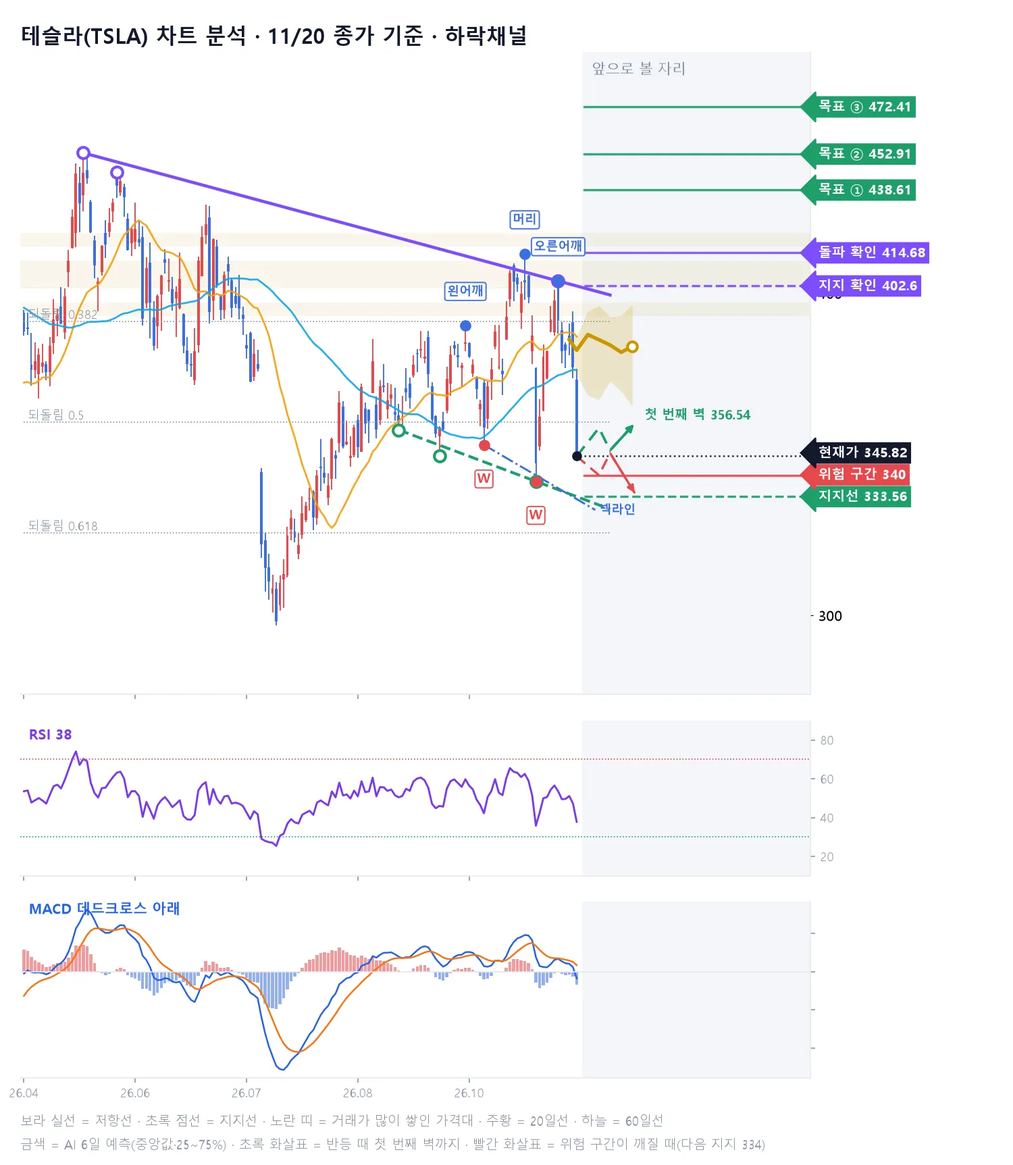
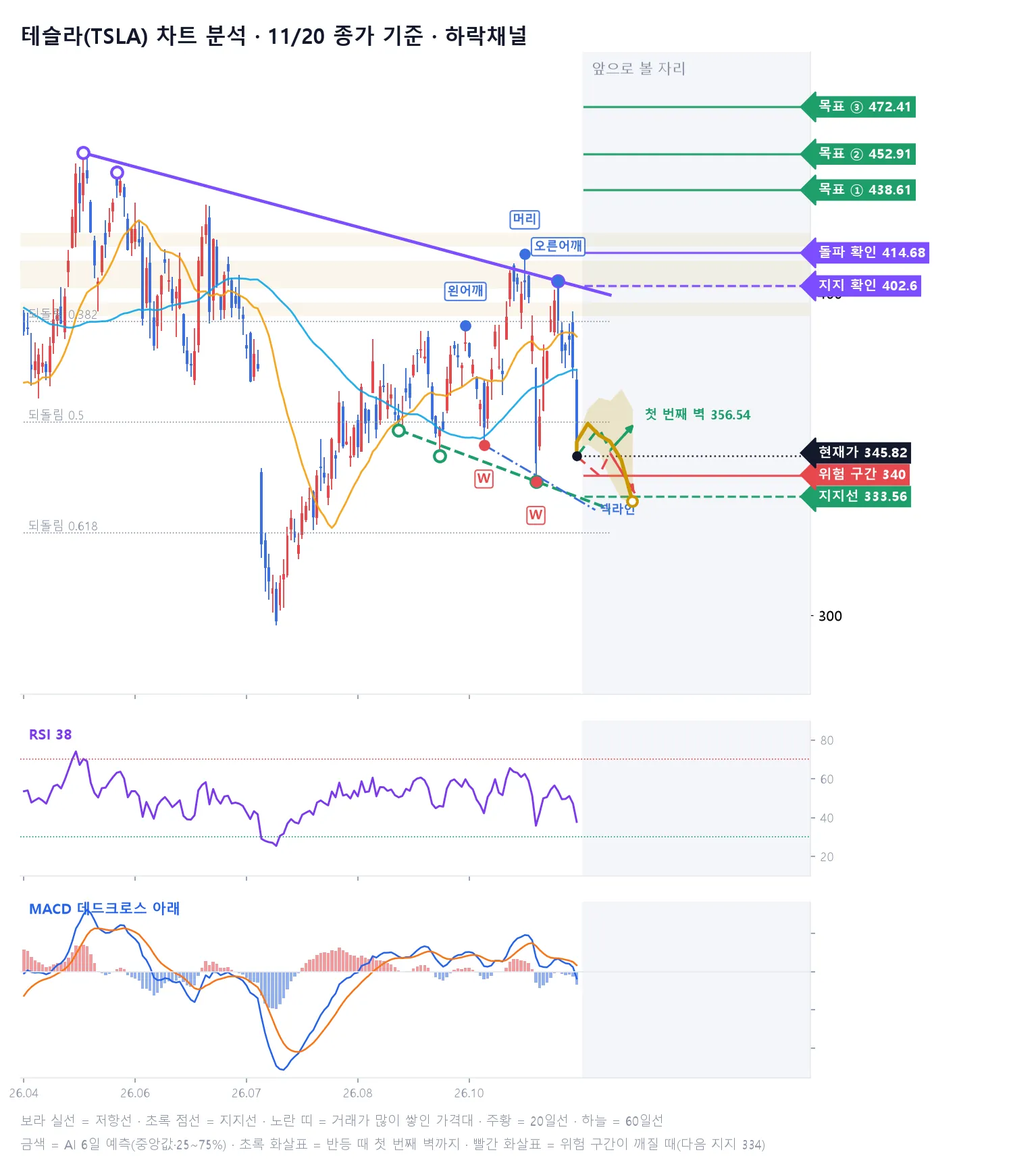
무료 공개 종목 페이지 자동 갱신

Changed region(s): [[0.552, 0.2458, 0.644, 0.4301]]

diff --git a/s/index.html b/s/index.html
@@ -84,8 +84,8 @@
     <h1>오늘의 무료 공개 종목</h1>
     <p style="margin:0;color:#B7BFD0">유튜브 쇼츠에 나온 종목의 AI 판정과 6일 예측 흐름을 누구나 볼 수 있어요</p>
   </section>
-  <div class="pk-list"><a class="card pk-item" href="BTC/"><span><b>비트코인(BTC)</b><small>코인 · 업비트 · 11/20 예측</small></span><b class="v-mx">혼돈</b></a><a class="card pk-item" href="ETH/"><span><b>이더리움(ETH)</b><small>코인 · 업비트 · 11/21 예측</small></span><b class="v-mx">혼돈</b></a><a class="card pk-item" href="SUI/"><span><b>수이(SUI)</b><small>코인 · 업비트 · 11/21 예측</small></span><b class="v-up">상승</b></a><a class="card pk-item" href="ZRO/"><span><b>레이어제로(ZRO)</b><small>코인 · 업비트 · 11/21 예측</small></span><b class="v-mx">혼돈</b></a><a class="card pk-item" href="XLM/"><span><b>스텔라루멘(XLM)</b><small>코인 · 업비트 · 11/21 예측</small></span><b class="v-up">상승</b></a><a class="card pk-item" href="ETC/"><span><b>이더리움클래식(ETC)</b><small>코인 · 업비트 · 11/21 예측</small></span><b class="v-up">상승</b></a><a class="card pk-item" href="MANA/"><span><b>디센트럴랜드(MANA)</b><small>코인 · 업비트 · 11/21 예측</small></span><b class="v-up">상승</b></a><a class="card pk-item" href="PALANTIR/"><span><b>팔란티어(PALANTIR)</b><small>미국 주식 · 11/21 예측</small></span><b class="v-up">상승</b></a><a class="card pk-item" href="NVIDIA/"><span><b>엔비디아(NVIDIA)</b><small>미국 주식 · 11/21 예측</small></span><b class="v-up">상승</b></a><a class="card pk-item" href="DOW/"><span><b>다우존스(DOW)</b><small>미국 주식 · 11/21 예측</small></span><b class="v-up">상승</b></a><a class="card pk-item" href="RUSSELL2000/"><span><b>러셀2000(RUSSELL2000)</b><small>미국 주식 · 11/21 예측</small></span><b class="v-up">상승</b></a><a class="card pk-item" href="MERCADOLIBRE/"><span><b>메르카도리브레(MERCADOLIBRE)</b><small>미국 주식 · 11/21 예측</small></span><b class="v-up">상승</b></a><a class="card pk-item" href="SK%ED%95%98%EC%9D%B4%EB%8B%89%EC%8A%A4/"><span><b>SK하이닉스(000660)</b><small>코스피200 · 11/20 예측</small></span><b class="v-mx">혼돈</b></a><a class="card pk-item" href="%EC%82%BC%EC%84%B1%EC%A0%84%EC%9E%90/"><span><b>삼성전자(005930)</b><small>코스피200 · 11/21 예측</small></span><b class="v-mx">혼돈</b></a><a class="card pk-item" href="%ED%95%9C%ED%99%94%EC%86%94%EB%A3%A8%EC%85%98/"><span><b>한화솔루션</b><small>코스피200 · 11/21 예측</small></span><b class="v-mx">혼돈</b></a><a class="card pk-item" href="KODEX%EB%AF%B8%EA%B5%AD%EB%82%98%EC%8A%A4%EB%8B%A5100TR/"><span><b>KODEX미국나스닥100TR</b><small>코스피200 · 11/21 예측</small></span><b class="v-up">상승</b></a><a class="card pk-item" href="TIGER2%EC%B0%A8%EC%A0%84%EC%A7%80%ED%85%8C%EB%A7%88/"><span><b>TIGER2차전지테마</b><small>코스피200 · 11/21 예측</small></span><b class="v-up">상승</b></a><a class="card pk-item" href="TIGER%EB%AF%B8%EA%B5%AD%ED%85%8C%ED%81%ACTOP10/"><span><b>TIGER미국테크TOP10</b><small>코스피200 · 11/21 예측</small></span><b class="v-up">상승</b></a><a class="card pk-item" href="KODEX2%EC%B0%A8%EC%A0%84%EC%A7%80%EC%82%B0%EC%97%85/"><span><b>KODEX2차전지산업</b><small>코스피200 · 11/21 예측</small></span><b class="v-up">상승</b></a><a class="card pk-item" href="KOSDAQ/"><span><b>코스닥(KOSDAQ)</b><small>코스피 지수 · 11/21 예측</small></span><b class="v-up">상승</b></a><a class="card pk-item" href="KOSPI/"><span><b>코스피(KOSPI)</b><small>코스피 지수 · 11/21 예측</small></span><b class="v-up">상승</b></a></div>
-  <h2 style="font-size:17px;margin:12px 0 0">지난 공개 종목</h2><div class="pk-list"><a class="card pk-item" href="APT/"><span><b>앱토스(APT)</b><small>코인 · 업비트 · 11/20 예측</small></span><b class="v-up">상승</b></a><a class="card pk-item" href="STRAX/"><span><b>저트라(STRAX)</b><small>코인 · 업비트 · 11/20 예측</small></span><b class="v-up">상승</b></a><a class="card pk-item" href="ENS/"><span><b>이더리움네임서비스(ENS)</b><small>코인 · 업비트 · 11/20 예측</small></span><b class="v-up">상승</b></a><a class="card pk-item" href="KODEXWTI%EC%9B%90%EC%9C%A0%EC%84%A0%EB%AC%BCH/"><span><b>KODEXWTI원유선물H</b><small>코스피200 · 11/20 예측</small></span><b class="v-up">상승</b></a><a class="card pk-item" href="%ED%95%9C%EC%A0%84%EA%B8%B0%EC%88%A0/"><span><b>한전기술</b><small>코스피200 · 11/20 예측</small></span><b class="v-up">상승</b></a><a class="card pk-item" href="KODEX%EA%B3%A8%EB%93%9C%EC%84%A0%EB%AC%BCH/"><span><b>KODEX골드선물H</b><small>코스피200 · 11/20 예측</small></span><b class="v-mx">혼돈</b></a><a class="card pk-item" href="TESLA/"><span><b>테슬라(TSLA)</b><small>미국 주식 · 11/19 예측</small></span><b class="v-mx">혼돈</b></a><a class="card pk-item" href="STRATEGY/"><span><b>스트래티지(STRATEGY)</b><small>미국 주식 · 11/19 예측</small></span><b class="v-up">상승</b></a><a class="card pk-item" href="NETFLIX/"><span><b>넷플릭스(NETFLIX)</b><small>미국 주식 · 11/19 예측</small></span><b class="v-up">상승</b></a><a class="card pk-item" href="SHIB/"><span><b>시바이누(SHIB)</b><small>코인 · 업비트 · 11/19 예측</small></span><b class="v-up">상승</b></a><a class="card pk-item" href="TOKAMAK/"><span><b>토카막네트워크(TOKAMAK)</b><small>코인 · 업비트 · 11/19 예측</small></span><b class="v-up">상승</b></a><a class="card pk-item" href="TIGER%EB%AF%B8%EA%B5%ADSP500/"><span><b>TIGER미국SP500</b><small>코스피200 · 11/19 예측</small></span><b class="v-mx">혼돈</b></a><a class="card pk-item" href="%EA%B8%B0%EC%95%84/"><span><b>기아</b><small>코스피200 · 11/19 예측</small></span><b class="v-mx">혼돈</b></a><a class="card pk-item" href="%ED%98%84%EB%8C%80%EB%A1%9C%ED%85%9C/"><span><b>현대로템</b><small>코스피200 · 11/19 예측</small></span><b class="v-up">상승</b></a><a class="card pk-item" href="TIGER%EB%B0%98%EB%8F%84%EC%B2%B4TOP10/"><span><b>TIGER반도체TOP10</b><small>코스피200 · 11/19 예측</small></span><b class="v-up">상승</b></a><a class="card pk-item" href="MBL/"><span><b>무비블록(MBL)</b><small>코인 · 업비트 · 11/18 예측</small></span><b class="v-up">상승</b></a><a class="card pk-item" href="SC/"><span><b>시아코인(SC)</b><small>코인 · 업비트 · 11/18 예측</small></span><b class="v-up">상승</b></a><a class="card pk-item" href="ELF/"><span><b>엘프(ELF)</b><small>코인 · 업비트 · 11/18 예측</small></span><b class="v-up">상승</b></a><a class="card pk-item" href="BITMINE/"><span><b>비트마인(BITMINE)</b><small>미국 주식 · 11/18 예측</small></span><b class="v-up">상승</b></a><a class="card pk-item" href="NASDAQ100/"><span><b>나스닥100(NASDAQ100)</b><small>미국 주식 · 11/18 예측</small></span><b class="v-up">상승</b></a><a class="card pk-item" href="NASDAQ/"><span><b>나스닥(NASDAQ)</b><small>미국 주식 · 11/18 예측</small></span><b class="v-up">상승</b></a><a class="card pk-item" href="DB%ED%95%98%EC%9D%B4%ED%85%8D/"><span><b>DB하이텍</b><small>코스피200 · 11/18 예측</small></span><b class="v-up">상승</b></a><a class="card pk-item" href="%ED%95%9C%ED%99%94%EC%83%9D%EB%AA%85/"><span><b>한화생명</b><small>코스피200 · 11/18 예측</small></span><b class="v-mx">혼돈</b></a><a class="card pk-item" href="SOL/"><span><b>솔라나(SOL)</b><small>코인 · 업비트 · 11/17 예측</small></span><b class="v-up">상승</b></a><a class="card pk-item" href="HBAR/"><span><b>헤데라(HBAR)</b><small>코인 · 업비트 · 11/17 예측</small></span><b class="v-up">상승</b></a><a class="card pk-item" href="NEAR/"><span><b>니어프로토콜(NEAR)</b><small>코인 · 업비트 · 11/17 예측</small></span><b class="v-up">상승</b></a><a class="card pk-item" href="CISCO/"><span><b>시스코(CISCO)</b><small>미국 주식 · 11/17 예측</small></span><b class="v-up">상승</b></a><a class="card pk-item" href="DB%EC%86%90%ED%95%B4%EB%B3%B4%ED%97%98/"><span><b>DB손해보험</b><small>코스피200 · 11/17 예측</small></span><b class="v-up">상승</b></a><a class="card pk-item" href="NIKKEI225/"><span><b>NIKKEI225</b><small>코스피200 · 11/17 예측</small></span><b class="v-up">상승</b></a><a class="card pk-item" href="LG/"><span><b>LG</b><small>코스피200 · 11/17 예측</small></span><b class="v-up">상승</b></a><a class="card pk-item" href="NEO/"><span><b>네오(NEO)</b><small>코인 · 업비트 · 11/16 예측</small></span><b class="v-up">상승</b></a><a class="card pk-item" href="MED/"><span><b>메디블록(MED)</b><small>코인 · 업비트 · 11/16 예측</small></span><b class="v-up">상승</b></a><a class="card pk-item" href="VET/"><span><b>비체인(VET)</b><small>코인 · 업비트 · 11/16 예측</small></span><b class="v-up">상승</b></a><a class="card pk-item" href="TFUEL/"><span><b>쎄타퓨엘(TFUEL)</b><small>코인 · 업비트 · 11/16 예측</small></span><b class="v-up">상승</b></a><a class="card pk-item" href="SP500/"><span><b>S&amp;P500(SPX)</b><small>미국 주식 · 11/14 예측</small></span><b class="v-dn">하락</b></a><a class="card pk-item" href="BITCOIN_ETF_FIDELITY/"><span><b>비트코인 현물 피델리티(BITCOIN_ETF_FIDELITY)</b><small>미국 주식 · 11/14 예측</small></span><b class="v-up">상승</b></a><a class="card pk-item" href="BITCOIN_ETF_ISHARES/"><span><b>비트코인 현물 아이셰어즈(BITCOIN_ETF_ISHARES)</b><small>미국 주식 · 11/14 예측</small></span><b class="v-up">상승</b></a></div>
+  <div class="pk-list"><a class="card pk-item" href="BTC/"><span><b>비트코인(BTC)</b><small>코인 · 업비트 · 11/20 예측</small></span><b class="v-mx">혼돈</b></a><a class="card pk-item" href="ETH/"><span><b>이더리움(ETH)</b><small>코인 · 업비트 · 11/21 예측</small></span><b class="v-mx">혼돈</b></a><a class="card pk-item" href="SUI/"><span><b>수이(SUI)</b><small>코인 · 업비트 · 11/21 예측</small></span><b class="v-up">상승</b></a><a class="card pk-item" href="ZRO/"><span><b>레이어제로(ZRO)</b><small>코인 · 업비트 · 11/21 예측</small></span><b class="v-mx">혼돈</b></a><a class="card pk-item" href="XLM/"><span><b>스텔라루멘(XLM)</b><small>코인 · 업비트 · 11/21 예측</small></span><b class="v-up">상승</b></a><a class="card pk-item" href="ETC/"><span><b>이더리움클래식(ETC)</b><small>코인 · 업비트 · 11/21 예측</small></span><b class="v-up">상승</b></a><a class="card pk-item" href="MANA/"><span><b>디센트럴랜드(MANA)</b><small>코인 · 업비트 · 11/21 예측</small></span><b class="v-up">상승</b></a><a class="card pk-item" href="TESLA/"><span><b>테슬라(TSLA)</b><small>미국 주식 · 11/21 예측</small></span><b class="v-up">상승</b></a><a class="card pk-item" href="PALANTIR/"><span><b>팔란티어(PALANTIR)</b><small>미국 주식 · 11/21 예측</small></span><b class="v-up">상승</b></a><a class="card pk-item" href="NVIDIA/"><span><b>엔비디아(NVIDIA)</b><small>미국 주식 · 11/21 예측</small></span><b class="v-up">상승</b></a><a class="card pk-item" href="DOW/"><span><b>다우존스(DOW)</b><small>미국 주식 · 11/21 예측</small></span><b class="v-up">상승</b></a><a class="card pk-item" href="RUSSELL2000/"><span><b>러셀2000(RUSSELL2000)</b><small>미국 주식 · 11/21 예측</small></span><b class="v-up">상승</b></a><a class="card pk-item" href="MERCADOLIBRE/"><span><b>메르카도리브레(MERCADOLIBRE)</b><small>미국 주식 · 11/21 예측</small></span><b class="v-up">상승</b></a><a class="card pk-item" href="SK%ED%95%98%EC%9D%B4%EB%8B%89%EC%8A%A4/"><span><b>SK하이닉스(000660)</b><small>코스피200 · 11/20 예측</small></span><b class="v-mx">혼돈</b></a><a class="card pk-item" href="%EC%82%BC%EC%84%B1%EC%A0%84%EC%9E%90/"><span><b>삼성전자(005930)</b><small>코스피200 · 11/21 예측</small></span><b class="v-mx">혼돈</b></a><a class="card pk-item" href="%ED%95%9C%ED%99%94%EC%86%94%EB%A3%A8%EC%85%98/"><span><b>한화솔루션</b><small>코스피200 · 11/21 예측</small></span><b class="v-mx">혼돈</b></a><a class="card pk-item" href="KODEX%EB%AF%B8%EA%B5%AD%EB%82%98%EC%8A%A4%EB%8B%A5100TR/"><span><b>KODEX미국나스닥100TR</b><small>코스피200 · 11/21 예측</small></span><b class="v-up">상승</b></a><a class="card pk-item" href="TIGER2%EC%B0%A8%EC%A0%84%EC%A7%80%ED%85%8C%EB%A7%88/"><span><b>TIGER2차전지테마</b><small>코스피200 · 11/21 예측</small></span><b class="v-up">상승</b></a><a class="card pk-item" href="TIGER%EB%AF%B8%EA%B5%AD%ED%85%8C%ED%81%ACTOP10/"><span><b>TIGER미국테크TOP10</b><small>코스피200 · 11/21 예측</small></span><b class="v-up">상승</b></a><a class="card pk-item" href="KODEX2%EC%B0%A8%EC%A0%84%EC%A7%80%EC%82%B0%EC%97%85/"><span><b>KODEX2차전지산업</b><small>코스피200 · 11/21 예측</small></span><b class="v-up">상승</b></a><a class="card pk-item" href="KOSDAQ/"><span><b>코스닥(KOSDAQ)</b><small>코스피 지수 · 11/21 예측</small></span><b class="v-up">상승</b></a><a class="card pk-item" href="KOSPI/"><span><b>코스피(KOSPI)</b><small>코스피 지수 · 11/21 예측</small></span><b class="v-up">상승</b></a></div>
+  <h2 style="font-size:17px;margin:12px 0 0">지난 공개 종목</h2><div class="pk-list"><a class="card pk-item" href="APT/"><span><b>앱토스(APT)</b><small>코인 · 업비트 · 11/20 예측</small></span><b class="v-up">상승</b></a><a class="card pk-item" href="STRAX/"><span><b>저트라(STRAX)</b><small>코인 · 업비트 · 11/20 예측</small></span><b class="v-up">상승</b></a><a class="card pk-item" href="ENS/"><span><b>이더리움네임서비스(ENS)</b><small>코인 · 업비트 · 11/20 예측</small></span><b class="v-up">상승</b></a><a class="card pk-item" href="KODEXWTI%EC%9B%90%EC%9C%A0%EC%84%A0%EB%AC%BCH/"><span><b>KODEXWTI원유선물H</b><small>코스피200 · 11/20 예측</small></span><b class="v-up">상승</b></a><a class="card pk-item" href="%ED%95%9C%EC%A0%84%EA%B8%B0%EC%88%A0/"><span><b>한전기술</b><small>코스피200 · 11/20 예측</small></span><b class="v-up">상승</b></a><a class="card pk-item" href="KODEX%EA%B3%A8%EB%93%9C%EC%84%A0%EB%AC%BCH/"><span><b>KODEX골드선물H</b><small>코스피200 · 11/20 예측</small></span><b class="v-mx">혼돈</b></a><a class="card pk-item" href="STRATEGY/"><span><b>스트래티지(STRATEGY)</b><small>미국 주식 · 11/19 예측</small></span><b class="v-up">상승</b></a><a class="card pk-item" href="NETFLIX/"><span><b>넷플릭스(NETFLIX)</b><small>미국 주식 · 11/19 예측</small></span><b class="v-up">상승</b></a><a class="card pk-item" href="SHIB/"><span><b>시바이누(SHIB)</b><small>코인 · 업비트 · 11/19 예측</small></span><b class="v-up">상승</b></a><a class="card pk-item" href="TOKAMAK/"><span><b>토카막네트워크(TOKAMAK)</b><small>코인 · 업비트 · 11/19 예측</small></span><b class="v-up">상승</b></a><a class="card pk-item" href="TIGER%EB%AF%B8%EA%B5%ADSP500/"><span><b>TIGER미국SP500</b><small>코스피200 · 11/19 예측</small></span><b class="v-mx">혼돈</b></a><a class="card pk-item" href="%EA%B8%B0%EC%95%84/"><span><b>기아</b><small>코스피200 · 11/19 예측</small></span><b class="v-mx">혼돈</b></a><a class="card pk-item" href="%ED%98%84%EB%8C%80%EB%A1%9C%ED%85%9C/"><span><b>현대로템</b><small>코스피200 · 11/19 예측</small></span><b class="v-up">상승</b></a><a class="card pk-item" href="TIGER%EB%B0%98%EB%8F%84%EC%B2%B4TOP10/"><span><b>TIGER반도체TOP10</b><small>코스피200 · 11/19 예측</small></span><b class="v-up">상승</b></a><a class="card pk-item" href="MBL/"><span><b>무비블록(MBL)</b><small>코인 · 업비트 · 11/18 예측</small></span><b class="v-up">상승</b></a><a class="card pk-item" href="SC/"><span><b>시아코인(SC)</b><small>코인 · 업비트 · 11/18 예측</small></span><b class="v-up">상승</b></a><a class="card pk-item" href="ELF/"><span><b>엘프(ELF)</b><small>코인 · 업비트 · 11/18 예측</small></span><b class="v-up">상승</b></a><a class="card pk-item" href="BITMINE/"><span><b>비트마인(BITMINE)</b><small>미국 주식 · 11/18 예측</small></span><b class="v-up">상승</b></a><a class="card pk-item" href="NASDAQ100/"><span><b>나스닥100(NASDAQ100)</b><small>미국 주식 · 11/18 예측</small></span><b class="v-up">상승</b></a><a class="card pk-item" href="NASDAQ/"><span><b>나스닥(NASDAQ)</b><small>미국 주식 · 11/18 예측</small></span><b class="v-up">상승</b></a><a class="card pk-item" href="DB%ED%95%98%EC%9D%B4%ED%85%8D/"><span><b>DB하이텍</b><small>코스피200 · 11/18 예측</small></span><b class="v-up">상승</b></a><a class="card pk-item" href="%ED%95%9C%ED%99%94%EC%83%9D%EB%AA%85/"><span><b>한화생명</b><small>코스피200 · 11/18 예측</small></span><b class="v-mx">혼돈</b></a><a class="card pk-item" href="SOL/"><span><b>솔라나(SOL)</b><small>코인 · 업비트 · 11/17 예측</small></span><b class="v-up">상승</b></a><a class="card pk-item" href="HBAR/"><span><b>헤데라(HBAR)</b><small>코인 · 업비트 · 11/17 예측</small></span><b class="v-up">상승</b></a><a class="card pk-item" href="NEAR/"><span><b>니어프로토콜(NEAR)</b><small>코인 · 업비트 · 11/17 예측</small></span><b class="v-up">상승</b></a><a class="card pk-item" href="CISCO/"><span><b>시스코(CISCO)</b><small>미국 주식 · 11/17 예측</small></span><b class="v-up">상승</b></a><a class="card pk-item" href="DB%EC%86%90%ED%95%B4%EB%B3%B4%ED%97%98/"><span><b>DB손해보험</b><small>코스피200 · 11/17 예측</small></span><b class="v-up">상승</b></a><a class="card pk-item" href="NIKKEI225/"><span><b>NIKKEI225</b><small>코스피200 · 11/17 예측</small></span><b class="v-up">상승</b></a><a class="card pk-item" href="LG/"><span><b>LG</b><small>코스피200 · 11/17 예측</small></span><b class="v-up">상승</b></a><a class="card pk-item" href="NEO/"><span><b>네오(NEO)</b><small>코인 · 업비트 · 11/16 예측</small></span><b class="v-up">상승</b></a><a class="card pk-item" href="MED/"><span><b>메디블록(MED)</b><small>코인 · 업비트 · 11/16 예측</small></span><b class="v-up">상승</b></a><a class="card pk-item" href="VET/"><span><b>비체인(VET)</b><small>코인 · 업비트 · 11/16 예측</small></span><b class="v-up">상승</b></a><a class="card pk-item" href="TFUEL/"><span><b>쎄타퓨엘(TFUEL)</b><small>코인 · 업비트 · 11/16 예측</small></span><b class="v-up">상승</b></a><a class="card pk-item" href="SP500/"><span><b>S&amp;P500(SPX)</b><small>미국 주식 · 11/14 예측</small></span><b class="v-dn">하락</b></a><a class="card pk-item" href="BITCOIN_ETF_FIDELITY/"><span><b>비트코인 현물 피델리티(BITCOIN_ETF_FIDELITY)</b><small>미국 주식 · 11/14 예측</small></span><b class="v-up">상승</b></a><a class="card pk-item" href="BITCOIN_ETF_ISHARES/"><span><b>비트코인 현물 아이셰어즈(BITCOIN_ETF_ISHARES)</b><small>미국 주식 · 11/14 예측</small></span><b class="v-up">상승</b></a></div>
   <section class="card pk-cta">
     <b style="font-size:17px">전체 종목 순위와 모델별 차트는 회원 화면에서</b>
     <a class="btn big red" href="../login.html?next=index.html#signup" data-member="../index.html" data-member-text="내 포털로 가기">7일 무료로 시작하기</a>

diff --git a/s/TESLA/index.html b/s/TESLA/index.html
@@ -3,13 +3,13 @@
 <head>
 <meta charset="utf-8">
 <meta name="viewport" content="width=device-width, initial-scale=1">
-<title>테슬라(TSLA) 전망 11/19 · AI 52개 모델 6일 예측 | AI 신호등</title>
-<meta name="description" content="11/19 기준 테슬라(TSLA) 다음 거래일 AI 판정은 &#x27;혼돈&#x27;. 52개 모델 중 상승 19 · 하락 18. 6일 뒤 예측 중앙값 +0.4%. 52개 예측 모델의 6일 가격 흐름을 신호등으로 정리했어요.">
+<title>테슬라(TSLA) 전망 11/21 · AI 52개 모델 6일 예측 | AI 신호등</title>
+<meta name="description" content="11/21 기준 테슬라(TSLA) 다음 거래일 AI 판정은 &#x27;상승&#x27;. 52개 모델 중 상승 41 · 하락 7. 6일 뒤 예측 중앙값 -3.9%. 52개 예측 모델의 6일 가격 흐름을 신호등으로 정리했어요.">
 <link rel="canonical" href="https://www.ai-sinhodeung.co.kr/s/TESLA/">
 <meta property="og:type" content="article">
 <meta property="og:site_name" content="AI 신호등">
-<meta property="og:title" content="테슬라(TSLA) 전망 11/19 · AI 52개 모델 6일 예측 | AI 신호등">
-<meta property="og:description" content="11/19 기준 테슬라(TSLA) 다음 거래일 AI 판정은 &#x27;혼돈&#x27;. 52개 모델 중 상승 19 · 하락 18. 6일 뒤 예측 중앙값 +0.4%. 52개 예측 모델의 6일 가격 흐름을 신호등으로 정리했어요.">
+<meta property="og:title" content="테슬라(TSLA) 전망 11/21 · AI 52개 모델 6일 예측 | AI 신호등">
+<meta property="og:description" content="11/21 기준 테슬라(TSLA) 다음 거래일 AI 판정은 &#x27;상승&#x27;. 52개 모델 중 상승 41 · 하락 7. 6일 뒤 예측 중앙값 -3.9%. 52개 예측 모델의 6일 가격 흐름을 신호등으로 정리했어요.">
 <meta property="og:url" content="https://www.ai-sinhodeung.co.kr/s/TESLA/">
 <meta property="og:image" content="https://www.ai-sinhodeung.co.kr/assets/og-image.png">
 <meta property="og:locale" content="ko_KR">
@@ -67,7 +67,7 @@
 .ca ul.ca-ck { list-style: none; padding: 0; display: grid; grid-template-columns: repeat(auto-fill, minmax(200px, 1fr)); gap: 2px 10px; font-size: 13.5px; }
 .ca ul.ca-warn { list-style: none; padding: 0; color: #B4232A; font-size: 13.5px; }
 </style>
-<script type="application/ld+json">{"@context": "https://schema.org", "@type": "Article", "headline": "테슬라(TSLA) 전망 11/19 · AI 52개 모델 6일 예측 | AI 신호등", "description": "11/19 기준 테슬라(TSLA) 다음 거래일 AI 판정은 '혼돈'. 52개 모델 중 상승 19 · 하락 18. 6일 뒤 예측 중앙값 +0.4%. 52개 예측 모델의 6일 가격 흐름을 신호등으로 정리했어요.", "dateModified": "2026-11-19", "inLanguage": "ko", "url": "https://www.ai-sinhodeung.co.kr/s/TESLA/", "publisher": {"@type": "Organization", "name": "AI 신호등", "url": "https://www.ai-sinhodeung.co.kr"}}</script>
+<script type="application/ld+json">{"@context": "https://schema.org", "@type": "Article", "headline": "테슬라(TSLA) 전망 11/21 · AI 52개 모델 6일 예측 | AI 신호등", "description": "11/21 기준 테슬라(TSLA) 다음 거래일 AI 판정은 '상승'. 52개 모델 중 상승 41 · 하락 7. 6일 뒤 예측 중앙값 -3.9%. 52개 예측 모델의 6일 가격 흐름을 신호등으로 정리했어요.", "dateModified": "2026-11-21", "inLanguage": "ko", "url": "https://www.ai-sinhodeung.co.kr/s/TESLA/", "publisher": {"@type": "Organization", "name": "AI 신호등", "url": "https://www.ai-sinhodeung.co.kr"}}</script>
 </head>
 <body class="home landing">
 <header class="topbar">
@@ -80,41 +80,41 @@
 
 <main class="pk">
   <section class="pk-hero on-night">
-    <small>미국 주식 · 11/19 예측 · AI 모델 52개</small>
+    <small>미국 주식 · 11/21 예측 · AI 모델 52개</small>
     <h1>테슬라(TSLA) 전망</h1>
   </section>
 
   <section class="card">
     <div class="pk-verdict">
-      <div class="lamp mx" aria-hidden="true"><i></i><i></i><i></i></div>
+      <div class="lamp up" aria-hidden="true"><i></i><i></i><i></i></div>
       <div><small style="color:var(--muted);font-size:12.5px">다음 거래일(D+1) AI 판정</small><br>
-        <b class="v-mx">혼돈</b><br><span>52개 모델 중 상승 19 · 하락 18</span></div>
+        <b class="v-up">상승</b><br><span>52개 모델 중 상승 41 · 하락 7</span></div>
     </div>
     <p style="margin:10px 0 0;color:var(--sub);font-size:14px">참고: D+2 고점 후 되돌림</p>
   </section>
 
   <section class="card">
     <h3 style="margin-bottom:6px">6일 예측 흐름</h3>
-    <p class="hint" style="margin:0 0 10px;font-size:13px">기준가 380.06$ · 6일 뒤 예측 중앙값 <b class="v-mx">+0.4%</b></p>
+    <p class="hint" style="margin:0 0 10px;font-size:13px">기준가 345.82$ · 6일 뒤 예측 중앙값 <b class="v-up">-3.9%</b></p>
     <svg viewBox="0 0 520 300" role="img" aria-label="최근 8일 종가와 앞으로 6일 예측 범위" class="pk-chart">
   <line x1="277.1" y1="30" x2="277.1" y2="266" stroke="#C5CAD6" stroke-dasharray="4 4"/>
-  <polygon points="277.1,145.0 315.2,115.7 353.4,68.1 391.5,56.8 429.7,79.2 467.8,76.4 506.0,53.4 506.0,249.7 467.8,222.3 429.7,203.1 391.5,237.2 353.4,229.8 315.2,192.1 277.1,145.0" fill="#C99700" fill-opacity=".14"/>
-  <polyline points="10.0,156.4 48.2,146.6 86.3,83.8 124.5,46.3 162.6,87.3 200.8,146.8 238.9,144.7 277.1,145.0" fill="none" stroke="#12182B" stroke-width="2.4" stroke-linejoin="round"/>
-  <polyline points="277.1,145.0 315.2,144.4 353.4,114.2 391.5,124.1 429.7,134.5 467.8,148.4 506.0,136.9" fill="none" stroke="#C99700" stroke-width="3" stroke-linejoin="round"/>
-  <circle cx="277.1" cy="145.0" r="4.5" fill="#12182B"/>
-  <circle cx="506.0" cy="136.9" r="6" fill="#fff" stroke="#C99700" stroke-width="3"/>
-  <text x="506" y="20" text-anchor="end" font-size="18" font-weight="700" fill="#C99700">6일 뒤 +0.4%</text>
-  <text x="10" y="290" font-size="15" fill="#8A93A6">11-09</text>
-  <text x="277.1" y="290" font-size="15" fill="#12182B" text-anchor="middle" font-weight="600">11-18 기준</text>
-  <text x="506" y="290" font-size="15" fill="#8A93A6" text-anchor="end">11-24</text>
+  <polygon points="277.1,206.2 315.2,188.8 353.4,159.7 391.5,148.6 429.7,151.6 467.8,139.7 506.0,159.7 506.0,249.7 467.8,246.2 429.7,227.6 391.5,202.5 353.4,194.8 315.2,198.8 277.1,206.2" fill="#E5383B" fill-opacity=".14"/>
+  <polyline points="10.0,66.8 48.2,46.3 86.3,68.7 124.5,101.1 162.6,100.0 200.8,88.8 238.9,117.7 277.1,206.2" fill="none" stroke="#12182B" stroke-width="2.4" stroke-linejoin="round"/>
+  <polyline points="277.1,206.2 315.2,192.4 353.4,174.6 391.5,185.8 429.7,192.1 467.8,209.6 506.0,248.2" fill="none" stroke="#E5383B" stroke-width="3" stroke-linejoin="round"/>
+  <circle cx="277.1" cy="206.2" r="4.5" fill="#12182B"/>
+  <circle cx="506.0" cy="248.2" r="6" fill="#fff" stroke="#E5383B" stroke-width="3"/>
+  <text x="506" y="20" text-anchor="end" font-size="18" font-weight="700" fill="#E5383B">6일 뒤 -3.9%</text>
+  <text x="10" y="290" font-size="15" fill="#8A93A6">11-11</text>
+  <text x="277.1" y="290" font-size="15" fill="#12182B" text-anchor="middle" font-weight="600">11-20 기준</text>
+  <text x="506" y="290" font-size="15" fill="#8A93A6" text-anchor="end">11-26</text>
 </svg>
-    <div class="pk-legend"><span><i style="background:#12182B"></i>실제 종가</span><span><i style="background:#C99700"></i>모델 예측 중앙값</span><span><i style="background:#C99700;height:8px;opacity:.2"></i>모델 25~75% 범위</span></div>
+    <div class="pk-legend"><span><i style="background:#12182B"></i>실제 종가</span><span><i style="background:#E5383B"></i>모델 예측 중앙값</span><span><i style="background:#E5383B;height:8px;opacity:.2"></i>모델 25~75% 범위</span></div>
   </section>
 
 
   <section class="card pk-cta">
     <b style="font-size:17px">📐 차트로 보면 어떤 자리일까?</b>
-    <p style="font-size:15px;color:var(--ink)">📊 차트 신호 점수 <b style="color:#8A93A6">24점 · 약</b> · AI 포함 <b style="color:#8A93A6">29점 · 약</b></p>
+    <p style="font-size:15px;color:var(--ink)">📊 차트 신호 점수 <b style="color:#8A93A6">24점 · 약</b> · AI 포함 <b style="color:#8A93A6">39점 · 약</b></p>
     <button class="btn big" type="button" onclick="var c=document.getElementById('ca');c.classList.toggle('open');this.textContent=c.classList.contains('open')?'차트 분석 접기':'📐 차트 분석 보기';if(c.classList.contains('open')){c.scrollIntoView({behavior:'smooth'});try{Portal.track('pick_chart')}catch(e){}}">📐 차트 분석 보기</button>
     <p>추세선·지지선·피보나치·거래가 몰린 가격대를 자동으로 그려서, 앞으로 볼 자리를 정리했어요</p>
   </section>
@@ -128,14 +128,14 @@
     <div class="ca-score">
       <h4 style="margin:0 0 8px">📊 차트 신호 점검</h4>
       <h4 style="margin:4px 0 0">🔎 패턴 점검</h4><div class="ca-grid"><div class="ca-g off" style=""><span>이동평균</span><b style="color:#9AA3B5">엉킴</b></div><div class="ca-g off" style=""><span>역헤드앤숄더</span><b style="color:#9AA3B5">아님</b></div><div class="ca-g" style="border-color:#3B6FE0"><span>헤드앤숄더</span><b style="color:#3B6FE0">가능성</b></div><div class="ca-g off" style=""><span>컵앤핸들</span><b style="color:#9AA3B5">아님</b></div><div class="ca-g" style="border-color:#E5484D"><span>이중 바닥(W)</span><b style="color:#E5484D">가능성</b></div><div class="ca-g off" style=""><span>이중 천장(M)</span><b style="color:#9AA3B5">아님</b></div><div class="ca-g off" style=""><span>하락쐐기</span><b style="color:#9AA3B5">아님</b></div><div class="ca-g off" style=""><span>상승쐐기</span><b style="color:#9AA3B5">아님</b></div></div><small style="color:var(--muted);font-size:12px">가능성 = 모양이 만들어지는 중 · 정해 둔 규칙에 맞을 때만 표시해요</small>
-      <div class="ca-scs"><div class="ca-sc"><small>차트만 본 점수</small><b style="color:#8A93A6">24</b><span style="background:#8A93A6">약</span></div><div class="ca-sc"><small>AI 예측까지 넣은 점수</small><b style="color:#8A93A6">29</b><span style="background:#8A93A6">약</span></div></div>
+      <div class="ca-scs"><div class="ca-sc"><small>차트만 본 점수</small><b style="color:#8A93A6">24</b><span style="background:#8A93A6">약</span></div><div class="ca-sc"><small>AI 예측까지 넣은 점수</small><b style="color:#8A93A6">39</b><span style="background:#8A93A6">약</span></div></div>
       <div class="ca-chips"><span class="ca-chip">🔵 헤드앤숄더 · 형성 중</span><span class="ca-chip">🔴 이중 바닥(W) · 형성 중</span><span class="ca-chip">🔵 하락채널 · 형성 중</span></div>
       <ul class="ca-ck"><li>▫ 반전 첫 신호(저점 상승)</li><li>▫ 전고 돌파(추세 완성)</li><li>▫ 거래량 1.5배</li><li>▫ 상승 다이버전스</li><li>✅ 하락 다이버전스 없음</li><li>✅ 큰 상승(깃대) +50%</li><li>▫ 되돌림 0.618 안</li></ul>
       <ul class="ca-warn"><li>⚠ 헤드앤숄더 형성 중</li><li>⚠ 하락채널 형성 중</li><li>⚠ 시장: 60일선 아래 역배열</li></ul>
       <small style="color:var(--muted);font-size:12px">모양 0/40 · 점검표 12/42 · 시장 12/18 · AI 넣은 점수 = 차트×0.8 + AI 판정(상승 20·혼돈 10·하락 0) · 70↑ 강 · 40~69 중 · 40↓ 약<br>
       조건이 몇 개 맞는지 센 점수예요. 앞으로 오를 확률이 아니에요.</small>
     </div>
-    <div class="ca-combo"><b>🤖 AI 예측과 같이 보면</b><br>다음 거래일 AI 판정 &#x27;혼돈&#x27;. AI 6일 예측 중앙값은 +0.4%(381.48)로, 저항선(402.6)까지는 못 미쳐요 → 당분간은 돌파보다 아래 지지 자리를 지키는지 보는 구간이에요.</div>
+    <div class="ca-combo"><b>🤖 AI 예측과 같이 보면</b><br>다음 거래일 AI 판정 &#x27;상승&#x27;. AI 6일 예측 중앙값은 -3.9%(332.28)로, 저항선(402.6)까지는 못 미쳐요 → 당분간은 돌파보다 아래 지지 자리를 지키는지 보는 구간이에요.</div>
     <div><h4 style="margin:0 0 8px">앞으로 볼 자리</h4><div class="ca-lv"><div class="goal"><b>목표 구간 ③</b><span>472.41$</span><small>수평 고점</small></div><div class="goal"><b>목표 구간 ②</b><span>452.91$</span><small>수평 고점</small></div><div class="goal"><b>목표 구간 ①</b><span>438.61$</span><small>수평 고점</small></div><div class="watch"><b>돌파 확인 자리</b><span>414.68$</span><small>종가가 저항선보다 3% 넘게 위에서 마감 (돌파 뒤 390.52 아래로 다시 마감하면 돌파 실패)</small></div><div class="watch"><b>지지 확인 자리</b><span>402.6$</span><small>돌파 뒤 저항선이 받쳐 주는지</small></div><div class="risk"><b>위험 구간</b><span>340$</span><small>지금 가격 아래 지지선. 이 아래로 마감하면 하락 흐름이 이어질 수 있어요 — 깨지면 다음 지지 334까지 열려 있어요</small></div></div></div>
     <div><h4 style="margin:0 0 6px">해석</h4><ul><li>지금 가격은 저항선보다 16% 아래예요. 아직 돌파를 말하기엔 거리가 있어요.</li><li>직전 큰 상승(214.25 → 498.83)의 0.71만큼 내려왔어요. 0.618 아래는 흐름이 바뀌었을 수 있는 구간이에요.</li><li>아래에서 받쳐 줄 자리: 340 / 334</li><li>나스닥100 지수 상태: 60일선 아래 역배열 → 시장 전체가 약해서 돌파가 나와도 한 번 더 확인이 필요해요</li></ul></div>
     <p class="pk-note" style="text-align:left">차트 모양을 규칙대로 자동 분석한 참고 자료예요. 특정 가격에 사고팔라는 권유가 아니며, 가격이 어느 자리에 있는지 보는 용도로만 써 주세요.</p>
